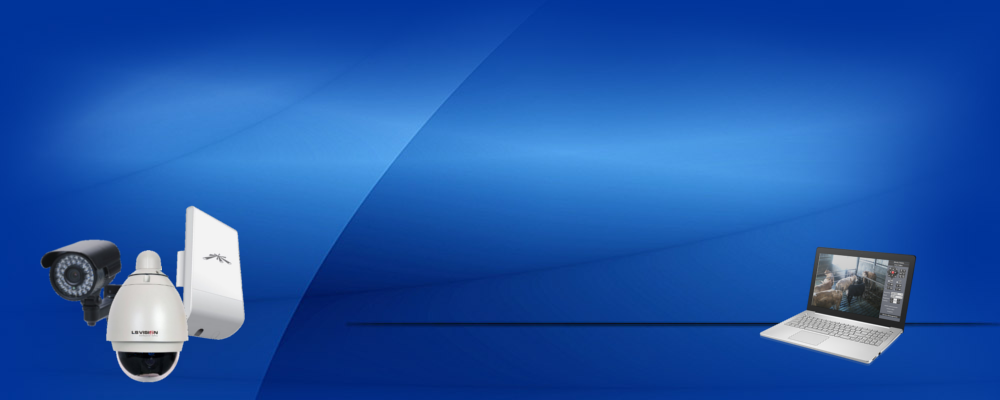
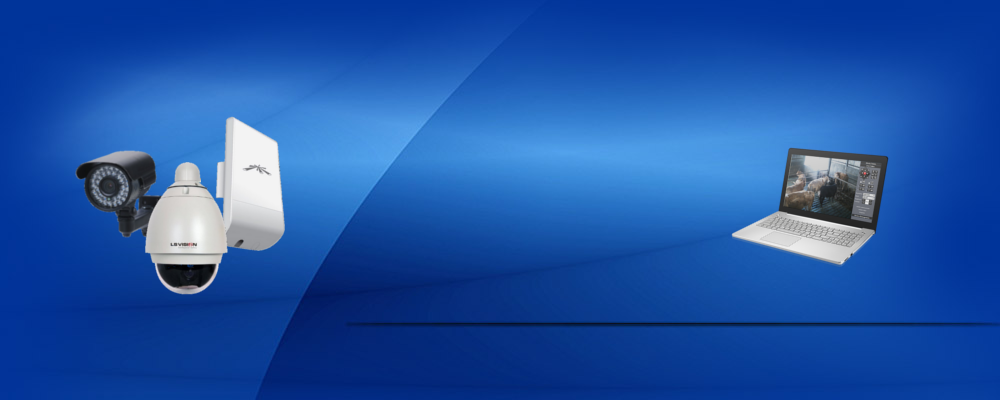
fixed products background for wide screens

Changed region(s): [[0.031, 0.3, 0.31, 0.96], [0.713, 0.36, 0.93, 0.93]]

diff --git a/products.md b/products.md
@@ -1,7 +1,8 @@
 ---
 layout: page
 permalink: /products/
-title: Calving Camera Products
+title: Products
+subTitle: Calving Camera Products
 bg-img: products_bg.png
 ---
 
